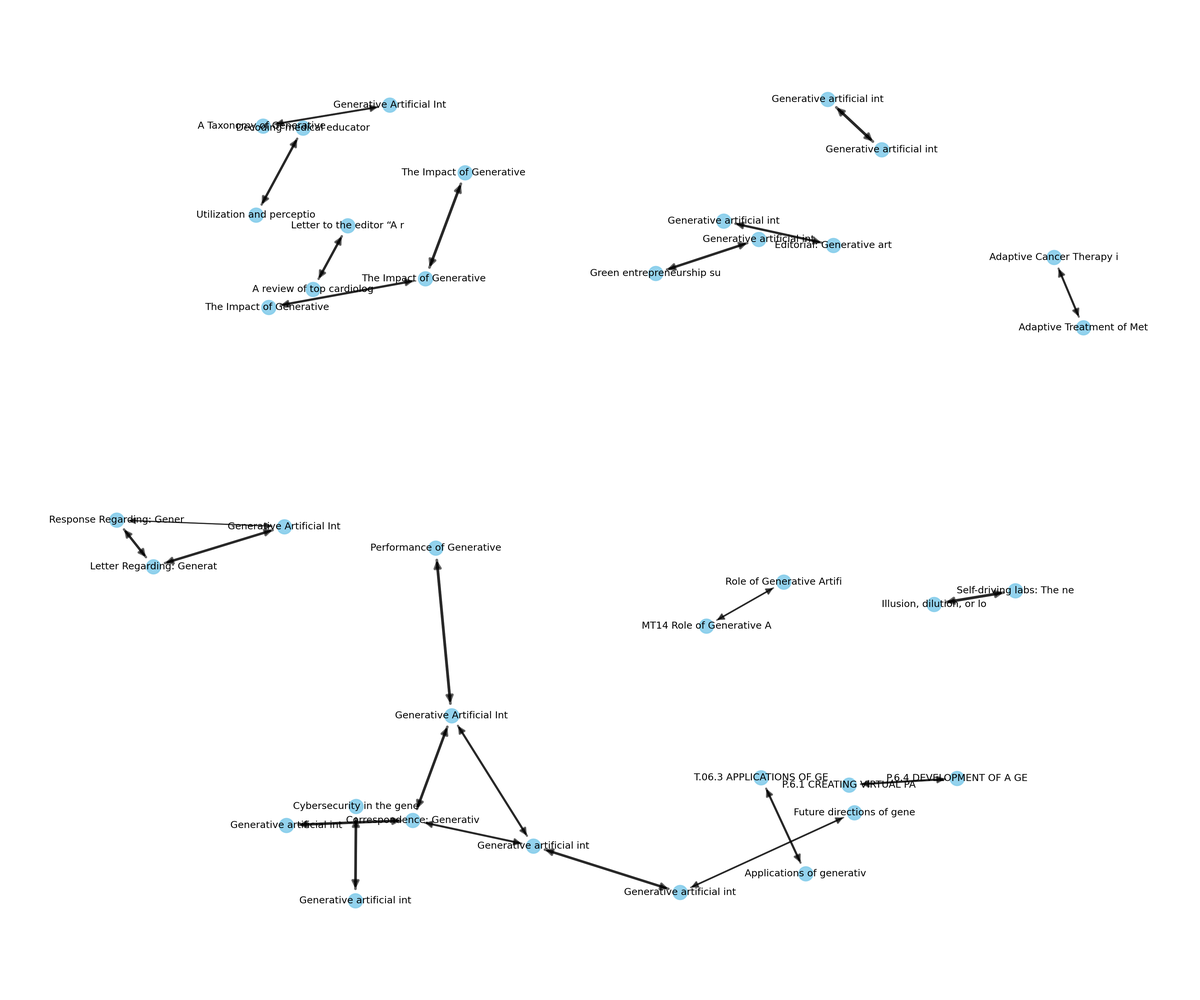
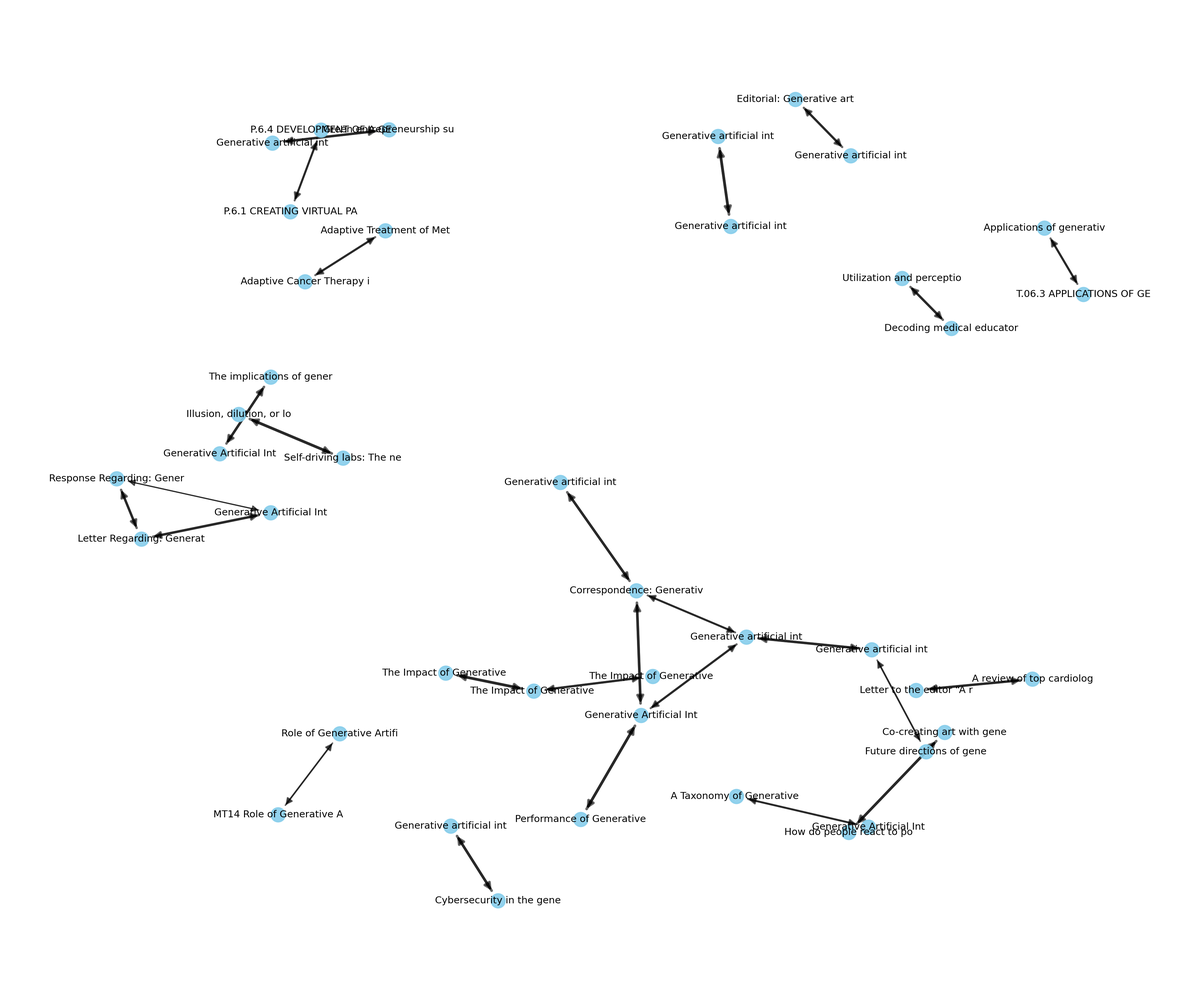
Se suben los cambios relacionados al requerimiento dos del seguimiento.

diff --git a/seguimiento2/Requerimiento1/grafo_citaciones_interactivo.html b/seguimiento2/Requerimiento1/grafo_citaciones_interactivo.html
@@ -88,8 +88,8 @@
                   
 
                   // parsing and collecting nodes and edges from the python
-                  nodes = new vis.DataSet([{"color": "skyblue", "id": 512, "label": "Generative artificial intelligence and academia: I", "shape": "dot", "title": "Generative artificial intelligence and academia: Implication for research, teaching and service"}, {"color": "skyblue", "id": 169, "label": "Generative artificial intelligence and learning: A", "shape": "dot", "title": "Generative artificial intelligence and learning: At the dawn of Idiocracy?"}, {"color": "skyblue", "id": 257, "label": "Letter Regarding: Generative Artificial Intelligen", "shape": "dot", "title": "Letter Regarding: Generative Artificial Intelligence in Academic Surgery: Ethical Implications and Transformative Potential"}, {"color": "skyblue", "id": 290, "label": "Response Regarding: Generative Artificial Intellig", "shape": "dot", "title": "Response Regarding: Generative Artificial Intelligence in Academic Surgery: Ethical Implications and Transformative Potential"}, {"color": "skyblue", "id": 188, "label": "Generative Artificial Intelligence in Academic Sur", "shape": "dot", "title": "Generative Artificial Intelligence in Academic Surgery: Ethical Implications and Transformative Potential"}, {"color": "skyblue", "id": 519, "label": "Generative artificial intelligence in publishing -", "shape": "dot", "title": "Generative artificial intelligence in publishing - Reflection and discussion"}, {"color": "skyblue", "id": 506, "label": "Editorial: Generative artificial intelligence as a", "shape": "dot", "title": "Editorial: Generative artificial intelligence as a plagiarism problem"}, {"color": "skyblue", "id": 520, "label": "Generative artificial intelligence in the metavers", "shape": "dot", "title": "Generative artificial intelligence in the metaverse era"}, {"color": "skyblue", "id": 375, "label": "Cybersecurity in the generative artificial intelli", "shape": "dot", "title": "Cybersecurity in the generative artificial intelligence era"}, {"color": "skyblue", "id": 395, "label": "Future directions of generative artificial intelli", "shape": "dot", "title": "Future directions of generative artificial intelligence in ophthalmology and vision science"}, {"color": "skyblue", "id": 201, "label": "Generative artificial intelligence in ophthalmolog", "shape": "dot", "title": "Generative artificial intelligence in ophthalmology"}, {"color": "skyblue", "id": 268, "label": "MT14 Role of Generative Artificial Intelligence in", "shape": "dot", "title": "MT14 Role of Generative Artificial Intelligence in Assisting Systematic Review Process in Health Research: A Systematic Review"}, {"color": "skyblue", "id": 291, "label": "Role of Generative Artificial Intelligence in Assi", "shape": "dot", "title": "Role of Generative Artificial Intelligence in Assisting Systematic Review Process in Health Research: A Systematic Review"}, {"color": "skyblue", "id": 413, "label": "Generative Artificial Intelligence in Dental Licen", "shape": "dot", "title": "Generative Artificial Intelligence in Dental Licensing Examinations: Comment"}, {"color": "skyblue", "id": 420, "label": "Generative artificial intelligence in ophthalmolog", "shape": "dot", "title": "Generative artificial intelligence in ophthalmology: Correspondence"}, {"color": "skyblue", "id": 374, "label": "Correspondence: Generative artificial intelligence", "shape": "dot", "title": "Correspondence: Generative artificial intelligence in healthcare"}, {"color": "skyblue", "id": 460, "label": "Performance of Generative Artificial Intelligence ", "shape": "dot", "title": "Performance of Generative Artificial Intelligence in Dental Licensing Examinations"}, {"color": "skyblue", "id": 294, "label": "Self-driving labs: The new frontier for GenAI-driv", "shape": "dot", "title": "Self-driving labs: The new frontier for GenAI-driven marketing research"}, {"color": "skyblue", "id": 240, "label": "Illusion, dilution, or loss: psychological ownersh", "shape": "dot", "title": "Illusion, dilution, or loss: psychological ownership and GenAI"}, {"color": "skyblue", "id": 168, "label": "Generative artificial intelligence and internation", "shape": "dot", "title": "Generative artificial intelligence and internationalization green innovation: Roles of supply chain innovations and AI regulation for SMEs"}, {"color": "skyblue", "id": 434, "label": "Green entrepreneurship success in the age of gener", "shape": "dot", "title": "Green entrepreneurship success in the age of generative artificial intelligence: The interplay of technology adoption, knowledge management, and government support"}, {"color": "skyblue", "id": 47, "label": "A Taxonomy of Generative Artificial Intelligence i", "shape": "dot", "title": "A Taxonomy of Generative Artificial Intelligence in Health Economics and Outcomes Research: An ISPOR Working Group Report"}, {"color": "skyblue", "id": 184, "label": "Generative Artificial Intelligence for Health Tech", "shape": "dot", "title": "Generative Artificial Intelligence for Health Technology Assessment: Opportunities, Challenges, and Policy Considerations: An ISPOR Working Group Report"}, {"color": "skyblue", "id": 304, "label": "T.06.3 APPLICATIONS OF GENERATIVE ARTIFICIAL INTEL", "shape": "dot", "title": "T.06.3 APPLICATIONS OF GENERATIVE ARTIFICIAL INTELLIGENCE IN INFLAMMATORY BOWEL DISEASE: A SYSTEMATIC REVIEW"}, {"color": "skyblue", "id": 67, "label": "Applications of generative artificial intelligence", "shape": "dot", "title": "Applications of generative artificial intelligence in inflammatory bowel disease: A systematic review"}, {"color": "skyblue", "id": 52, "label": "Adaptive Treatment of Metastatic Prostate Cancer U", "shape": "dot", "title": "Adaptive Treatment of Metastatic Prostate Cancer Using Generative Artificial Intelligence"}, {"color": "skyblue", "id": 355, "label": "Adaptive Cancer Therapy in the Age of Generative A", "shape": "dot", "title": "Adaptive Cancer Therapy in the Age of Generative Artificial Intelligence"}, {"color": "skyblue", "id": 448, "label": "Letter to the editor \u201cA review of top cardiology a", "shape": "dot", "title": "Letter to the editor \u201cA review of top cardiology and cardiovascular medicine journal guidelines regarding the use of generative artificial intelligence tools in scientific writing\u201d"}, {"color": "skyblue", "id": 352, "label": "A review of top cardiology and cardiovascular medi", "shape": "dot", "title": "A review of top cardiology and cardiovascular medicine journal guidelines regarding the use of generative artificial intelligence tools in scientific writing"}, {"color": "skyblue", "id": 194, "label": "Generative artificial intelligence in diabetes hea", "shape": "dot", "title": "Generative artificial intelligence in diabetes healthcare"}, {"color": "skyblue", "id": 458, "label": "P.6.1 CREATING VIRTUAL PATIENTS WITH A GENERATIVE ", "shape": "dot", "title": "P.6.1 CREATING VIRTUAL PATIENTS WITH A GENERATIVE ARTIFICIAL INTELLIGENCE ALGORITHM FOR CLINICAL STUDIES"}, {"color": "skyblue", "id": 459, "label": "P.6.4 DEVELOPMENT OF A GENERATIVE ARTIFICIAL INTEL", "shape": "dot", "title": "P.6.4 DEVELOPMENT OF A GENERATIVE ARTIFICIAL INTELLIGENCE ALGORITHM FOR THE REGENERATION OF VIRTUAL VOLUNTEERS IN BIOEQUIVALENCE STUDIES"}, {"color": "skyblue", "id": 339, "label": "Utilization and perception of generative artificia", "shape": "dot", "title": "Utilization and perception of generative artificial intelligence by medical students in residency applications"}, {"color": "skyblue", "id": 376, "label": "Decoding medical educators\u2019 perceptions on generat", "shape": "dot", "title": "Decoding medical educators\u2019 perceptions on generative artificial intelligence in medical education"}, {"color": "skyblue", "id": 483, "label": "The Impact of Generative Artificial Intelligence i", "shape": "dot", "title": "The Impact of Generative Artificial Intelligence in Scientific Content Synthesis for Authors"}, {"color": "skyblue", "id": 484, "label": "The Impact of Generative Artificial Intelligence o", "shape": "dot", "title": "The Impact of Generative Artificial Intelligence on Research Integrity in Scholarly Publishing"}, {"color": "skyblue", "id": 485, "label": "The Impact of Generative Artificial Intelligence o", "shape": "dot", "title": "The Impact of Generative Artificial Intelligence on the External Review of Scientific Manuscripts and Editorial Peer Review Processes"}]);
-                  edges = new vis.DataSet([{"arrows": "to", "from": 512, "title": "Similitud: 0.650", "to": 169, "value": 0.65}, {"arrows": "to", "from": 257, "title": "Similitud: 0.571", "to": 290, "value": 0.5714285714285714}, {"arrows": "to", "from": 257, "title": "Similitud: 0.577", "to": 188, "value": 0.5769230769230769}, {"arrows": "to", "from": 519, "title": "Similitud: 0.535", "to": 506, "value": 0.5346153846153846}, {"arrows": "to", "from": 520, "title": "Similitud: 0.625", "to": 375, "value": 0.625}, {"arrows": "to", "from": 395, "title": "Similitud: 0.385", "to": 201, "value": 0.38522727272727275}, {"arrows": "to", "from": 268, "title": "Similitud: 0.369", "to": 291, "value": 0.36904761904761907}, {"arrows": "to", "from": 413, "title": "Similitud: 0.500", "to": 420, "value": 0.5}, {"arrows": "to", "from": 413, "title": "Similitud: 0.620", "to": 374, "value": 0.62}, {"arrows": "to", "from": 413, "title": "Similitud: 0.650", "to": 460, "value": 0.65}, {"arrows": "to", "from": 290, "title": "Similitud: 0.277", "to": 188, "value": 0.27692307692307694}, {"arrows": "to", "from": 290, "title": "Similitud: 0.571", "to": 257, "value": 0.5714285714285714}, {"arrows": "to", "from": 291, "title": "Similitud: 0.369", "to": 268, "value": 0.36904761904761907}, {"arrows": "to", "from": 420, "title": "Similitud: 0.463", "to": 374, "value": 0.46285714285714286}, {"arrows": "to", "from": 420, "title": "Similitud: 0.500", "to": 413, "value": 0.5}, {"arrows": "to", "from": 420, "title": "Similitud: 0.583", "to": 201, "value": 0.5833333333333333}, {"arrows": "to", "from": 294, "title": "Similitud: 0.644", "to": 240, "value": 0.6436507936507936}, {"arrows": "to", "from": 168, "title": "Similitud: 0.575", "to": 434, "value": 0.5746753246753247}, {"arrows": "to", "from": 169, "title": "Similitud: 0.650", "to": 512, "value": 0.65}, {"arrows": "to", "from": 47, "title": "Similitud: 0.448", "to": 184, "value": 0.44796918767507}, {"arrows": "to", "from": 304, "title": "Similitud: 0.500", "to": 67, "value": 0.5}, {"arrows": "to", "from": 434, "title": "Similitud: 0.575", "to": 168, "value": 0.5746753246753247}, {"arrows": "to", "from": 52, "title": "Similitud: 0.486", "to": 355, "value": 0.48571428571428577}, {"arrows": "to", "from": 184, "title": "Similitud: 0.448", "to": 47, "value": 0.44796918767507}, {"arrows": "to", "from": 188, "title": "Similitud: 0.277", "to": 290, "value": 0.27692307692307694}, {"arrows": "to", "from": 188, "title": "Similitud: 0.577", "to": 257, "value": 0.5769230769230769}, {"arrows": "to", "from": 448, "title": "Similitud: 0.565", "to": 352, "value": 0.5652173913043479}, {"arrows": "to", "from": 194, "title": "Similitud: 0.603", "to": 374, "value": 0.6028571428571429}, {"arrows": "to", "from": 67, "title": "Similitud: 0.500", "to": 304, "value": 0.5}, {"arrows": "to", "from": 201, "title": "Similitud: 0.385", "to": 395, "value": 0.38522727272727275}, {"arrows": "to", "from": 201, "title": "Similitud: 0.583", "to": 420, "value": 0.5833333333333333}, {"arrows": "to", "from": 458, "title": "Similitud: 0.483", "to": 459, "value": 0.4826086956521739}, {"arrows": "to", "from": 459, "title": "Similitud: 0.483", "to": 458, "value": 0.4826086956521739}, {"arrows": "to", "from": 460, "title": "Similitud: 0.650", "to": 413, "value": 0.65}, {"arrows": "to", "from": 339, "title": "Similitud: 0.561", "to": 376, "value": 0.5611111111111111}, {"arrows": "to", "from": 352, "title": "Similitud: 0.565", "to": 448, "value": 0.5652173913043479}, {"arrows": "to", "from": 355, "title": "Similitud: 0.486", "to": 52, "value": 0.48571428571428577}, {"arrows": "to", "from": 483, "title": "Similitud: 0.644", "to": 484, "value": 0.6441176470588236}, {"arrows": "to", "from": 484, "title": "Similitud: 0.525", "to": 485, "value": 0.525}, {"arrows": "to", "from": 484, "title": "Similitud: 0.644", "to": 483, "value": 0.6441176470588236}, {"arrows": "to", "from": 485, "title": "Similitud: 0.525", "to": 484, "value": 0.525}, {"arrows": "to", "from": 240, "title": "Similitud: 0.644", "to": 294, "value": 0.6436507936507936}, {"arrows": "to", "from": 374, "title": "Similitud: 0.463", "to": 420, "value": 0.46285714285714286}, {"arrows": "to", "from": 374, "title": "Similitud: 0.603", "to": 194, "value": 0.6028571428571429}, {"arrows": "to", "from": 374, "title": "Similitud: 0.620", "to": 413, "value": 0.62}, {"arrows": "to", "from": 375, "title": "Similitud: 0.625", "to": 520, "value": 0.625}, {"arrows": "to", "from": 376, "title": "Similitud: 0.561", "to": 339, "value": 0.5611111111111111}, {"arrows": "to", "from": 506, "title": "Similitud: 0.535", "to": 519, "value": 0.5346153846153846}]);
+                  nodes = new vis.DataSet([{"color": "skyblue", "id": 513, "label": "Editorial: Generative artificial intelligence as a", "shape": "dot", "title": "Editorial: Generative artificial intelligence as a plagiarism problem"}, {"color": "skyblue", "id": 527, "label": "Generative artificial intelligence in publishing -", "shape": "dot", "title": "Generative artificial intelligence in publishing - Reflection and discussion"}, {"color": "skyblue", "id": 259, "label": "Letter Regarding: Generative Artificial Intelligen", "shape": "dot", "title": "Letter Regarding: Generative Artificial Intelligence in Academic Surgery: Ethical Implications and Transformative Potential"}, {"color": "skyblue", "id": 293, "label": "Response Regarding: Generative Artificial Intellig", "shape": "dot", "title": "Response Regarding: Generative Artificial Intelligence in Academic Surgery: Ethical Implications and Transformative Potential"}, {"color": "skyblue", "id": 191, "label": "Generative Artificial Intelligence in Academic Sur", "shape": "dot", "title": "Generative Artificial Intelligence in Academic Surgery: Ethical Implications and Transformative Potential"}, {"color": "skyblue", "id": 520, "label": "Generative artificial intelligence and academia: I", "shape": "dot", "title": "Generative artificial intelligence and academia: Implication for research, teaching and service"}, {"color": "skyblue", "id": 172, "label": "Generative artificial intelligence and learning: A", "shape": "dot", "title": "Generative artificial intelligence and learning: At the dawn of Idiocracy?"}, {"color": "skyblue", "id": 270, "label": "MT14 Role of Generative Artificial Intelligence in", "shape": "dot", "title": "MT14 Role of Generative Artificial Intelligence in Assisting Systematic Review Process in Health Research: A Systematic Review"}, {"color": "skyblue", "id": 294, "label": "Role of Generative Artificial Intelligence in Assi", "shape": "dot", "title": "Role of Generative Artificial Intelligence in Assisting Systematic Review Process in Health Research: A Systematic Review"}, {"color": "skyblue", "id": 400, "label": "Future directions of generative artificial intelli", "shape": "dot", "title": "Future directions of generative artificial intelligence in ophthalmology and vision science"}, {"color": "skyblue", "id": 204, "label": "Generative artificial intelligence in ophthalmolog", "shape": "dot", "title": "Generative artificial intelligence in ophthalmology"}, {"color": "skyblue", "id": 528, "label": "Generative Artificial Intelligence in the Hospital", "shape": "dot", "title": "Generative Artificial Intelligence in the Hospitality and Tourism Industry: Developing a Framework for Future Research"}, {"color": "skyblue", "id": 543, "label": "The implications of generative artificial intellig", "shape": "dot", "title": "The implications of generative artificial intelligence in academic research and higher education in tourism and hospitality"}, {"color": "skyblue", "id": 529, "label": "Generative artificial intelligence in the metavers", "shape": "dot", "title": "Generative artificial intelligence in the metaverse era"}, {"color": "skyblue", "id": 379, "label": "Cybersecurity in the generative artificial intelli", "shape": "dot", "title": "Cybersecurity in the generative artificial intelligence era"}, {"color": "skyblue", "id": 419, "label": "Generative Artificial Intelligence in Dental Licen", "shape": "dot", "title": "Generative Artificial Intelligence in Dental Licensing Examinations: Comment"}, {"color": "skyblue", "id": 426, "label": "Generative artificial intelligence in ophthalmolog", "shape": "dot", "title": "Generative artificial intelligence in ophthalmology: Correspondence"}, {"color": "skyblue", "id": 378, "label": "Correspondence: Generative artificial intelligence", "shape": "dot", "title": "Correspondence: Generative artificial intelligence in healthcare"}, {"color": "skyblue", "id": 467, "label": "Performance of Generative Artificial Intelligence ", "shape": "dot", "title": "Performance of Generative Artificial Intelligence in Dental Licensing Examinations"}, {"color": "skyblue", "id": 297, "label": "Self-driving labs: The new frontier for GenAI-driv", "shape": "dot", "title": "Self-driving labs: The new frontier for GenAI-driven marketing research"}, {"color": "skyblue", "id": 243, "label": "Illusion, dilution, or loss: psychological ownersh", "shape": "dot", "title": "Illusion, dilution, or loss: psychological ownership and GenAI"}, {"color": "skyblue", "id": 171, "label": "Generative artificial intelligence and internation", "shape": "dot", "title": "Generative artificial intelligence and internationalization green innovation: Roles of supply chain innovations and AI regulation for SMEs"}, {"color": "skyblue", "id": 440, "label": "Green entrepreneurship success in the age of gener", "shape": "dot", "title": "Green entrepreneurship success in the age of generative artificial intelligence: The interplay of technology adoption, knowledge management, and government support"}, {"color": "skyblue", "id": 48, "label": "A Taxonomy of Generative Artificial Intelligence i", "shape": "dot", "title": "A Taxonomy of Generative Artificial Intelligence in Health Economics and Outcomes Research: An ISPOR Working Group Report"}, {"color": "skyblue", "id": 187, "label": "Generative Artificial Intelligence for Health Tech", "shape": "dot", "title": "Generative Artificial Intelligence for Health Technology Assessment: Opportunities, Challenges, and Policy Considerations: An ISPOR Working Group Report"}, {"color": "skyblue", "id": 307, "label": "T.06.3 APPLICATIONS OF GENERATIVE ARTIFICIAL INTEL", "shape": "dot", "title": "T.06.3 APPLICATIONS OF GENERATIVE ARTIFICIAL INTELLIGENCE IN INFLAMMATORY BOWEL DISEASE: A SYSTEMATIC REVIEW"}, {"color": "skyblue", "id": 68, "label": "Applications of generative artificial intelligence", "shape": "dot", "title": "Applications of generative artificial intelligence in inflammatory bowel disease: A systematic review"}, {"color": "skyblue", "id": 53, "label": "Adaptive Treatment of Metastatic Prostate Cancer U", "shape": "dot", "title": "Adaptive Treatment of Metastatic Prostate Cancer Using Generative Artificial Intelligence"}, {"color": "skyblue", "id": 359, "label": "Adaptive Cancer Therapy in the Age of Generative A", "shape": "dot", "title": "Adaptive Cancer Therapy in the Age of Generative Artificial Intelligence"}, {"color": "skyblue", "id": 197, "label": "Generative artificial intelligence in diabetes hea", "shape": "dot", "title": "Generative artificial intelligence in diabetes healthcare"}, {"color": "skyblue", "id": 455, "label": "Letter to the editor \u201cA review of top cardiology a", "shape": "dot", "title": "Letter to the editor \u201cA review of top cardiology and cardiovascular medicine journal guidelines regarding the use of generative artificial intelligence tools in scientific writing\u201d"}, {"color": "skyblue", "id": 356, "label": "A review of top cardiology and cardiovascular medi", "shape": "dot", "title": "A review of top cardiology and cardiovascular medicine journal guidelines regarding the use of generative artificial intelligence tools in scientific writing"}, {"color": "skyblue", "id": 465, "label": "P.6.1 CREATING VIRTUAL PATIENTS WITH A GENERATIVE ", "shape": "dot", "title": "P.6.1 CREATING VIRTUAL PATIENTS WITH A GENERATIVE ARTIFICIAL INTELLIGENCE ALGORITHM FOR CLINICAL STUDIES"}, {"color": "skyblue", "id": 466, "label": "P.6.4 DEVELOPMENT OF A GENERATIVE ARTIFICIAL INTEL", "shape": "dot", "title": "P.6.4 DEVELOPMENT OF A GENERATIVE ARTIFICIAL INTELLIGENCE ALGORITHM FOR THE REGENERATION OF VIRTUAL VOLUNTEERS IN BIOEQUIVALENCE STUDIES"}, {"color": "skyblue", "id": 343, "label": "Utilization and perception of generative artificia", "shape": "dot", "title": "Utilization and perception of generative artificial intelligence by medical students in residency applications"}, {"color": "skyblue", "id": 380, "label": "Decoding medical educators\u2019 perceptions on generat", "shape": "dot", "title": "Decoding medical educators\u2019 perceptions on generative artificial intelligence in medical education"}, {"color": "skyblue", "id": 490, "label": "The Impact of Generative Artificial Intelligence i", "shape": "dot", "title": "The Impact of Generative Artificial Intelligence in Scientific Content Synthesis for Authors"}, {"color": "skyblue", "id": 491, "label": "The Impact of Generative Artificial Intelligence o", "shape": "dot", "title": "The Impact of Generative Artificial Intelligence on Research Integrity in Scholarly Publishing"}, {"color": "skyblue", "id": 492, "label": "The Impact of Generative Artificial Intelligence o", "shape": "dot", "title": "The Impact of Generative Artificial Intelligence on the External Review of Scientific Manuscripts and Editorial Peer Review Processes"}, {"color": "skyblue", "id": 238, "label": "How do people react to political bias in generativ", "shape": "dot", "title": "How do people react to political bias in generative artificial intelligence (AI)?"}, {"color": "skyblue", "id": 374, "label": "Co-creating art with generative artificial intelli", "shape": "dot", "title": "Co-creating art with generative artificial intelligence: Implications for artworks and artists"}]);
+                  edges = new vis.DataSet([{"arrows": "to", "from": 513, "title": "Similitud: 0.535", "to": 527, "value": 0.5346153846153846}, {"arrows": "to", "from": 259, "title": "Similitud: 0.571", "to": 293, "value": 0.5714285714285714}, {"arrows": "to", "from": 259, "title": "Similitud: 0.577", "to": 191, "value": 0.5769230769230769}, {"arrows": "to", "from": 520, "title": "Similitud: 0.650", "to": 172, "value": 0.65}, {"arrows": "to", "from": 270, "title": "Similitud: 0.369", "to": 294, "value": 0.36904761904761907}, {"arrows": "to", "from": 527, "title": "Similitud: 0.535", "to": 513, "value": 0.5346153846153846}, {"arrows": "to", "from": 400, "title": "Similitud: 0.385", "to": 204, "value": 0.38522727272727275}, {"arrows": "to", "from": 528, "title": "Similitud: 0.595", "to": 543, "value": 0.595}, {"arrows": "to", "from": 529, "title": "Similitud: 0.625", "to": 379, "value": 0.625}, {"arrows": "to", "from": 543, "title": "Similitud: 0.595", "to": 528, "value": 0.595}, {"arrows": "to", "from": 419, "title": "Similitud: 0.500", "to": 426, "value": 0.5}, {"arrows": "to", "from": 419, "title": "Similitud: 0.620", "to": 378, "value": 0.62}, {"arrows": "to", "from": 419, "title": "Similitud: 0.650", "to": 467, "value": 0.65}, {"arrows": "to", "from": 293, "title": "Similitud: 0.277", "to": 191, "value": 0.27692307692307694}, {"arrows": "to", "from": 293, "title": "Similitud: 0.571", "to": 259, "value": 0.5714285714285714}, {"arrows": "to", "from": 294, "title": "Similitud: 0.369", "to": 270, "value": 0.36904761904761907}, {"arrows": "to", "from": 297, "title": "Similitud: 0.644", "to": 243, "value": 0.6436507936507936}, {"arrows": "to", "from": 426, "title": "Similitud: 0.463", "to": 378, "value": 0.46285714285714286}, {"arrows": "to", "from": 426, "title": "Similitud: 0.500", "to": 419, "value": 0.5}, {"arrows": "to", "from": 426, "title": "Similitud: 0.583", "to": 204, "value": 0.5833333333333333}, {"arrows": "to", "from": 171, "title": "Similitud: 0.575", "to": 440, "value": 0.5746753246753247}, {"arrows": "to", "from": 172, "title": "Similitud: 0.650", "to": 520, "value": 0.65}, {"arrows": "to", "from": 48, "title": "Similitud: 0.448", "to": 187, "value": 0.44796918767507}, {"arrows": "to", "from": 307, "title": "Similitud: 0.500", "to": 68, "value": 0.5}, {"arrows": "to", "from": 53, "title": "Similitud: 0.486", "to": 359, "value": 0.48571428571428577}, {"arrows": "to", "from": 440, "title": "Similitud: 0.575", "to": 171, "value": 0.5746753246753247}, {"arrows": "to", "from": 187, "title": "Similitud: 0.448", "to": 48, "value": 0.44796918767507}, {"arrows": "to", "from": 191, "title": "Similitud: 0.277", "to": 293, "value": 0.27692307692307694}, {"arrows": "to", "from": 191, "title": "Similitud: 0.577", "to": 259, "value": 0.5769230769230769}, {"arrows": "to", "from": 68, "title": "Similitud: 0.500", "to": 307, "value": 0.5}, {"arrows": "to", "from": 197, "title": "Similitud: 0.603", "to": 378, "value": 0.6028571428571429}, {"arrows": "to", "from": 455, "title": "Similitud: 0.565", "to": 356, "value": 0.5652173913043479}, {"arrows": "to", "from": 204, "title": "Similitud: 0.385", "to": 400, "value": 0.38522727272727275}, {"arrows": "to", "from": 204, "title": "Similitud: 0.583", "to": 426, "value": 0.5833333333333333}, {"arrows": "to", "from": 465, "title": "Similitud: 0.483", "to": 466, "value": 0.4826086956521739}, {"arrows": "to", "from": 466, "title": "Similitud: 0.483", "to": 465, "value": 0.4826086956521739}, {"arrows": "to", "from": 467, "title": "Similitud: 0.650", "to": 419, "value": 0.65}, {"arrows": "to", "from": 343, "title": "Similitud: 0.561", "to": 380, "value": 0.5611111111111111}, {"arrows": "to", "from": 356, "title": "Similitud: 0.565", "to": 455, "value": 0.5652173913043479}, {"arrows": "to", "from": 359, "title": "Similitud: 0.486", "to": 53, "value": 0.48571428571428577}, {"arrows": "to", "from": 490, "title": "Similitud: 0.644", "to": 491, "value": 0.6441176470588236}, {"arrows": "to", "from": 491, "title": "Similitud: 0.525", "to": 492, "value": 0.525}, {"arrows": "to", "from": 491, "title": "Similitud: 0.644", "to": 490, "value": 0.6441176470588236}, {"arrows": "to", "from": 492, "title": "Similitud: 0.525", "to": 491, "value": 0.525}, {"arrows": "to", "from": 238, "title": "Similitud: 0.629", "to": 374, "value": 0.6285714285714286}, {"arrows": "to", "from": 243, "title": "Similitud: 0.644", "to": 297, "value": 0.6436507936507936}, {"arrows": "to", "from": 374, "title": "Similitud: 0.629", "to": 238, "value": 0.6285714285714286}, {"arrows": "to", "from": 378, "title": "Similitud: 0.463", "to": 426, "value": 0.46285714285714286}, {"arrows": "to", "from": 378, "title": "Similitud: 0.603", "to": 197, "value": 0.6028571428571429}, {"arrows": "to", "from": 378, "title": "Similitud: 0.620", "to": 419, "value": 0.62}, {"arrows": "to", "from": 379, "title": "Similitud: 0.625", "to": 529, "value": 0.625}, {"arrows": "to", "from": 380, "title": "Similitud: 0.561", "to": 343, "value": 0.5611111111111111}]);
 
                   nodeColors = {};
                   allNodes = nodes.get({ returnType: "Object" });

diff --git a/grafo_req2.py b/grafo_req2.py
@@ -1,0 +1,219 @@
+"""
+grafo_coocurrencia_req5.py
+
+Requerimiento 5: Construcción y análisis del grafo de coocurrencia entre términos.
+Lee automáticamente los términos de las salidas del Req. 3 y 4, y construye un grafo
+no dirigido a partir de los abstracts del corpus.
+
+Cumple:
+ 1⃣ Construcción automática del grafo desde textos procesados.
+ 2⃣ Cálculo de grado de cada nodo.
+ 3⃣ Detección de grupos temáticos (componentes conexas).
+
+Dependencias:
+    pip install networkx pandas matplotlib numpy pyvis
+"""
+
+import os
+import re
+from collections import Counter, defaultdict
+from typing import List, Optional, Dict, Tuple, Set
+import pandas as pd
+import networkx as nx
+import matplotlib.pyplot as plt
+import numpy as np
+from pyvis.network import Network
+
+
+# ============================================================
+# CLASE PRINCIPAL
+# ============================================================
+class CooccurrenceGraph:
+    def __init__(self, terms: Optional[List[str]] = None, min_cooccurrence: int = 1, normalizar: bool = True):
+        self.terms = [t.strip() for t in terms] if terms else []
+        self.min_cooccurrence = max(1, int(min_cooccurrence))
+        self.normalizar = normalizar
+        self._doc_term_matrix: List[Set[str]] = []
+        self.cooccurrence_counts: Dict[Tuple[str, str], int] = defaultdict(int)
+        self._term_doc_freq: Counter = Counter()
+        self.G: Optional[nx.Graph] = None
+
+    # ---------------- Normalización ----------------
+    @staticmethod
+    def _normalize_text(text: str) -> str:
+        if not isinstance(text, str):
+            text = str(text or "")
+        t = text.lower()
+        t = re.sub(r"[\r\n\t]+", " ", t)
+        t = re.sub(r"[^\w\s\-]", " ", t)
+        t = re.sub(r"\s+", " ", t).strip()
+        return t
+
+    def _term_present_in_text(self, term: str, text: str) -> bool:
+        if self.normalizar:
+            term = self._normalize_text(term)
+            text = self._normalize_text(text)
+        pattern = r"\b" + re.escape(term) + r"\b"
+        return re.search(pattern, text) is not None
+
+    # ---------------- Construcción ----------------
+    def build_from_abstracts(self, abstracts: List[str], terms: Optional[List[str]] = None):
+        if terms is not None:
+            self.terms = [t.strip() for t in terms]
+        if not self.terms:
+            raise ValueError("Debe proporcionar una lista de términos.")
+
+        self._doc_term_matrix = []
+        self.cooccurrence_counts = defaultdict(int)
+        self._term_doc_freq = Counter()
+
+        for txt in abstracts:
+            presentes = set()
+            for term in self.terms:
+                try:
+                    if self._term_present_in_text(term, txt):
+                        presentes.add(term)
+                except re.error:
+                    if term.lower() in txt.lower():
+                        presentes.add(term)
+
+            self._doc_term_matrix.append(presentes)
+            for t in presentes:
+                self._term_doc_freq[t] += 1
+
+            # Pares de coocurrencia
+            for i, a in enumerate(sorted(presentes)):
+                for b in list(sorted(presentes))[i + 1:]:
+                    self.cooccurrence_counts[(a, b)] += 1
+
+        self._build_graph_from_counts()
+
+    def _build_graph_from_counts(self):
+        G = nx.Graph()
+        for term in self.terms:
+            G.add_node(term, doc_freq=int(self._term_doc_freq.get(term, 0)))
+
+        for (a, b), count in self.cooccurrence_counts.items():
+            if count >= self.min_cooccurrence:
+                G.add_edge(a, b, weight=int(count))
+        self.G = G
+
+    def filtrar_aristas_principales(self, top_k: int = 30):
+        """Conserva solo las top_k aristas con mayor peso."""
+        if self.G is None:
+            raise RuntimeError("El grafo no está construido.")
+        # Ordenar aristas por peso
+        edges_sorted = sorted(self.G.edges(data=True), key=lambda x: x[2].get("weight", 1), reverse=True)
+        top_edges = edges_sorted[:top_k]
+        # Crear subgrafo
+        G_filtrado = nx.Graph()
+        for u, v, data in top_edges:
+            G_filtrado.add_edge(u, v, **data)
+        for n in G_filtrado.nodes():
+            G_filtrado.nodes[n]["doc_freq"] = self.G.nodes[n].get("doc_freq", 0)
+        self.G = G_filtrado
+
+    # ---------------- Métricas ----------------
+    def get_node_degrees(self) -> pd.DataFrame:
+        if self.G is None:
+            raise RuntimeError("El grafo no está construido.")
+        rows = [{'term': n,
+                 'degree': self.G.degree(n),
+                 'doc_freq': self.G.nodes[n].get('doc_freq', 0)} for n in self.G.nodes]
+        return pd.DataFrame(rows).sort_values('degree', ascending=False).reset_index(drop=True)
+
+    def connected_components(self, min_size: int = 1):
+        if self.G is None:
+            raise RuntimeError("El grafo no está construido.")
+        comps = [set(c) for c in nx.connected_components(self.G) if len(c) >= min_size]
+        comps.sort(key=lambda s: -len(s))
+        return comps
+
+    # ---------------- Exportar / Visualizar ----------------
+    def save_graph_png(self, path: str, layout: str = 'kamada_kawai', show_weights=False):
+        if self.G is None:
+            raise RuntimeError("El grafo no está construido.")
+        plt.figure(figsize=(12, 9))
+        pos = nx.kamada_kawai_layout(self.G)
+        doc_freqs = np.array([self.G.nodes[n].get('doc_freq', 0) for n in self.G.nodes()], dtype=float)
+        nsizes = (doc_freqs + 1.0) * 250
+        nx.draw_networkx_nodes(self.G, pos, node_size=nsizes, node_color="#8cbdd9", edgecolors="black")
+        nx.draw_networkx_labels(self.G, pos, font_size=9)
+        edge_weights = [self.G[u][v].get('weight', 1) for u, v in self.G.edges()]
+        widths = [1.0 + 2.0 * (w / max(edge_weights)) for w in edge_weights]
+        nx.draw_networkx_edges(self.G, pos, width=widths, alpha=0.4)
+        if show_weights:
+            edge_labels = {(u, v): self.G[u][v].get('weight', 1) for u, v in self.G.edges()}
+            nx.draw_networkx_edge_labels(self.G, pos, edge_labels=edge_labels, font_size=8)
+        plt.axis('off')
+        plt.tight_layout()
+        plt.savefig(path, dpi=300)
+        plt.close()
+
+    def save_graph_html(self, path_html: str):
+        if self.G is None:
+            raise RuntimeError("El grafo no está construido.")
+        net = Network(height="800px", width="100%", bgcolor="#ffffff", font_color="black")
+        net.from_nx(self.G)
+        net.toggle_physics(True)
+        net.write_html(path_html)
+
+
+# ============================================================
+# PROCESO AUTOMÁTICO (LEE SALIDAS DEL REQ. 3 Y 4)
+# ============================================================
+if __name__ == "__main__":
+    print("=== Requerimiento 5: Grafo de Coocurrencia ===")
+
+    # --- Ruta de archivos ---
+    DIR = "/home/ycmejia/Escritorio/PROYECTO ALGORITMOS/salidas"
+    CORPUS = os.path.join(DIR, "unificado_ai_generativa.csv")
+    SEMILLAS = os.path.join(DIR, "req3_frecuencias_semillas.csv")
+    NUEVOS = os.path.join(DIR, "req3_nuevos_terminos.csv")
+
+
+    # --- Leer términos de Req 3 y 4 ---
+    def leer_terminos():
+        terminos = []
+        for ruta in [SEMILLAS, NUEVOS]:
+            if os.path.exists(ruta):
+                df = pd.read_csv(ruta)
+                col = [c for c in df.columns if "term" in c.lower() or "palabra" in c.lower()]
+                if col:
+                    terminos.extend(df[col[0]].dropna().astype(str).tolist())
+        return sorted(set(terminos))
+
+    # --- Leer abstracts del corpus ---
+    df_corpus = pd.read_csv(CORPUS)
+    col_abs = [c for c in df_corpus.columns if "abstract" in c.lower()][0]
+    abstracts = df_corpus[col_abs].dropna().astype(str).tolist()
+
+    # --- Construcción del grafo ---
+    terms = leer_terminos()
+    print(f"Términos leídos: {len(terms)} | Abstracts: {len(abstracts)}")
+
+    cg = CooccurrenceGraph(terms=terms, min_cooccurrence=1)
+    cg.build_from_abstracts(abstracts)
+
+    # --- Resultados ---
+    print(f"Nodos: {len(cg.G.nodes)} | Aristas: {len(cg.G.edges)}")
+    print("\nTop grados de nodos:")
+    print(cg.get_node_degrees().head(10))
+
+    comps = cg.connected_components()
+    print(f"\nComponentes conexas encontradas: {len(comps)}")
+    for i, comp in enumerate(comps[:5], 1):
+        print(f"  • Componente #{i} ({len(comp)} términos): {', '.join(list(comp)[:10])}...")
+
+    # --- Filtrar solo las principales aristas ---
+    cg.filtrar_aristas_principales(top_k=40)  # ajusta a 20, 30, 50 según quieras más o menos densidad
+
+    # --- Guardar visualizaciones ---
+    png_path = os.path.join(DIR, "grafo_coocurrencia_top.png")
+    html_path = os.path.join(DIR, "grafo_coocurrencia_top.html")
+    cg.save_graph_png(png_path, show_weights=True)
+    cg.save_graph_html(html_path)
+
+    print(f"\n✅ Grafo reducido a las {len(cg.G.edges())} aristas principales")
+    print(f"✅ Imagen PNG guardada en: {png_path}")
+    print(f"✅ Grafo interactivo HTML guardado en: {html_path}")

diff --git a/main_cluster.py b/main_cluster.py
@@ -67,8 +67,8 @@ def main():
         print(f"• cos(abstract_0, abstract_1) = {cos_demo:.4f}\n")
 
     # 3) Similitud coseno y DISTANCIA
-    S = matriz_similitud_coseno(X)              # SIMILITUD = X * X^T (multiplicación matricial)
-    D = matriz_distancia_desde_similitud(S)     # DISTANCIA = 1 - S
+    S = matriz_similitud_coseno(X)
+    D = matriz_distancia_desde_similitud(S)
 
     # 4) Clustering (3 variantes mínimas). Ward opcional.
     metodos = ["single", "complete", "average"]
@@ -97,12 +97,11 @@ def main():
             "silhouette_mejor": m["silhouette_mejor"]
         })
 
-        # Seleccionar mejor por silhouette
         sm = m.get("silhouette_mejor")
         if sm is not None and sm > mejor["silhouette_mejor"]:
             mejor.update({"metodo": metodo, "silhouette_mejor": sm, "k_mejor": m["k_mejor"]})
 
-        # Guardar JSON detallado por método (trazabilidad)
+        # Guardar JSON detallado
         ruta_json = os.path.join(OUT_DIR, f"req4_metricas_{metodo}.json")
         with open(ruta_json, "w", encoding="utf-8") as f:
             json.dump(m, f, ensure_ascii=False, indent=2)
@@ -126,33 +125,66 @@ def main():
     else:
         ruta_asig = None
 
-    # 8) Salida explicativa en consola
+    # ============================
+    # 8⃣ Exportar clusters de términos (para Req.5)
+    # ============================
+    if ruta_asig:
+        print("\nAsignando clusters a términos (para grafo de coocurrencia)...")
+        df_asig = pd.read_csv(ruta_asig)
+        ruta_clusters_terminos = os.path.join(OUT_DIR, "req4_clusters_terminos.csv")
+        exportar_clusters_a_terminos(df_asig, RUTA_CSV_UNIFICADO, ruta_clusters_terminos)
+
+    # ============================
+    # 9⃣ Resumen final
+    # ============================
     print("\n# Lectura de resultados (Requerimiento 4)")
-    print("• Cada dendrograma muestra cómo los abstracts se van uniendo desde los más similares")
-    print("  (distancia baja) hasta formar un solo grupo (altura mayor).")
-    print("• Comparamos variantes de enlace: single (encadena), complete (grupos compactos),")
-    print("  average (promedio; término medio estable) y Ward (minimiza varianza con euclídea).")
-    print("\n# Métricas (coherencia)")
     print(df_metricas.to_string(index=False))
     if mejor["metodo"] is not None:
         print(f"\n► Método más coherente (silhouette): {mejor['metodo']}  |  "
               f"silhouette={mejor['silhouette_mejor']:.3f}  |  k={mejor['k_mejor']}")
         if ruta_asig:
             print(f"   • Asignaciones guardadas en: {ruta_asig}")
+            print(f"   • Clusters de términos guardados en: {ruta_clusters_terminos}")
     print(f"\nArtefactos generados:")
     for metodo in metodos:
         print(f"  • Dendrograma: {os.path.join(OUT_DIR, f'dendrograma_{metodo}.png')}")
         print(f"  • Métricas JSON: {os.path.join(OUT_DIR, f'req4_metricas_{metodo}.json')}")
     print(f"  • Resumen métricas CSV: {ruta_metricas_csv}")
+    print("\n✅ Proceso completado correctamente.")
 
-    print("\nCómo usar el dendrograma:")
-    print("  - Si 'cortas' horizontalmente a una altura, obtienes k clusters.")
-    print("  - A alturas bajas: muchos grupos MUY similares.")
-    print("  - A alturas altas: pocos grupos más diversos.")
-    print("\nInterpretación rápida:")
-    print("  - Revisa si los títulos dentro de un mismo cluster comparten tema (p. ej., ética/privacidad,")
-    print("    prompting en educación, evaluación de aprendizajes con GenAI). Ese juicio cualitativo +")
-    print("    las métricas (silhouette/cofenética) sustenta qué método agrupa más coherentemente.\n")
+def exportar_clusters_a_terminos(df_asignaciones, ruta_csv_unificado, ruta_salida):
+    """
+    Relaciona términos con clusters, usando en qué documentos (abstracts)
+    aparece cada término.
+    Guarda un CSV: termino, cluster_id
+    """
+    import re
+
+    df_corpus = pd.read_csv(ruta_csv_unificado)
+    if "abstract" not in df_corpus.columns:
+        print("⚠ No se encontró columna 'abstract' en el corpus, no se puede mapear términos.")
+        return
+
+    abstracts = df_corpus["abstract"].astype(str).tolist()
+    terminos = []  # se llenará a partir de Req.3, pero por ahora usaremos unigramas frecuentes
+    for txt in abstracts:
+        terminos.extend(re.findall(r"\b[a-zA-Z]{4,}\b", txt.lower()))
+    terminos = list(set(terminos))
+
+    term_cluster = {}
+    for term in terminos:
+        presentes = df_corpus[df_corpus["abstract"].str.contains(term, case=False, na=False)].index.tolist()
+        if presentes:
+            # cluster más frecuente entre los docs donde aparece el término
+            clusters = df_asignaciones.loc[df_asignaciones["doc_idx"].isin(presentes), "cluster"].tolist()
+            if clusters:
+                cluster_mas_comun = max(set(clusters), key=clusters.count)
+                term_cluster[term] = cluster_mas_comun
+
+    df_out = pd.DataFrame(list(term_cluster.items()), columns=["termino", "cluster_id"])
+    df_out.to_csv(ruta_salida, index=False, encoding="utf-8-sig")
+    print(f"✓ Clusters de términos exportados a: {ruta_salida}")
+
 
 if __name__ == "__main__":
     main()

diff --git a/grafo_req1.py b/grafo_req1.py
@@ -1,4 +1,4 @@
-# main_grafo.py
+# grafo_req1.py
 # ============================================================
 # Requerimiento (GRAFOS) — EXACTAMENTE lo pedido:
 # 1) Construcción automática de un grafo de citaciones dirigido, con pesos.
@@ -780,6 +780,6 @@ def guardar_grafo_interactivo(G, ruta_html, max_nodos=80):
 
 # —— Entry point (punto de entrada) ——
 if __name__ == "__main__":
-    # Este bloque se ejecuta solo si corres:  python main_grafo.py
+    # Este bloque se ejecuta solo si corres:  python grafo_req1.py
     # Si importas este archivo desde otro módulo, no se ejecuta main().
     main()

diff --git a/main_pipeline.py b/main_pipeline.py
@@ -223,8 +223,8 @@ def _sd_next(driver, timeout=20):
 
 def run_pipeline(
     query="generative artificial intelligence",
-    paginas_sage=5,
-    paginas_sd=5,
+    paginas_sage=30,
+    paginas_sd=30,
     sd_per_page=100
 ):
     # -------- SAGE --------
